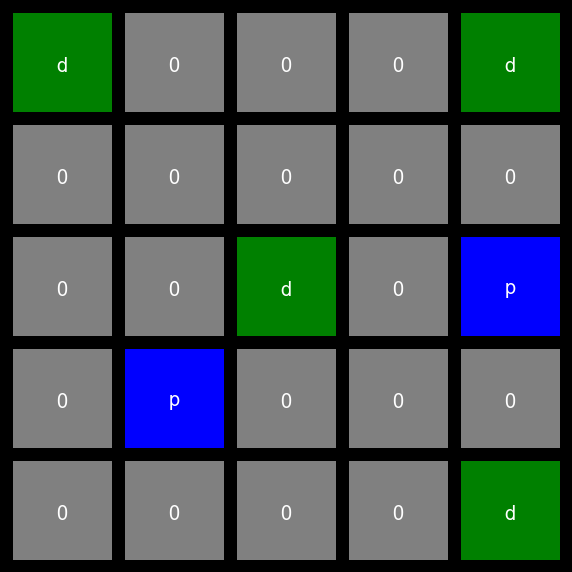
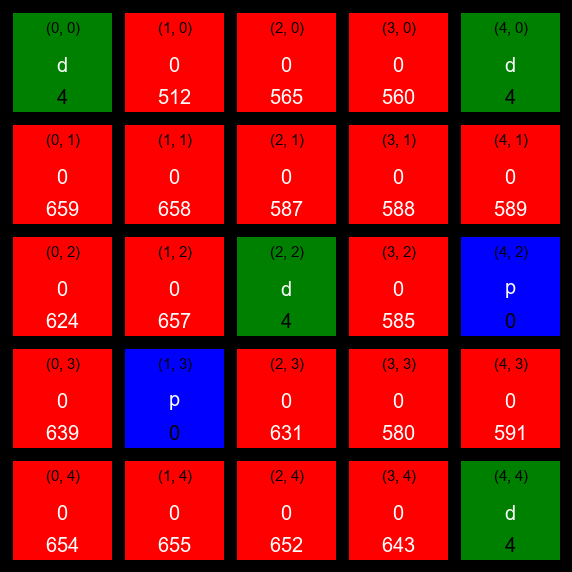
agent added

diff --git a/main.py b/main.py
@@ -1,7 +1,11 @@
 import numpy as np
+from random import randint
+import cv2 as cv
+import time
 
 from Visualize.visualize import Visualize as vl
 from WorldProcessing.readWorld import ReadWorld
+
 
 # World:
 # world has blocks, which has 'coor'(it's coordinate), 'north', 'south', 'west', 'east'
@@ -18,28 +22,44 @@ from WorldProcessing.readWorld import ReadWorld
 # put_x((x, y), 'color') // put a big X on the block
 
 
-def get_app_ops(world, x, y, has_block):
+def getAppOps(world, x, y, has_block):
     directions = ['north', 'south', 'west', 'east']
     return_ops = []
 
     if has_block:
-        if world[(x, y)]['action'] == "d" and world[(x, y)]['no_of_block'] < 4:
+        if world[(x, y)]['action'] == "d" and world[(x, y)]['no_of_blocks'] < 4:
             return_ops.append("d")
+            print("DELIVERED!")
+            return return_ops
         else:
             for d in directions:
                 if world[(x, y)][d] != 'nan':
                     return_ops.append(d)
     else:
-        if world[(x, y)]['action'] == "p" and world[(x, y)]['no_of_block'] > 0:
+        if world[(x, y)]['action'] == "p" and world[(x, y)]['no_of_blocks'] > 0:
             return_ops.append("p")
+            print("PICKED UP!")
+            return return_ops
         for d in directions:
             if world[(x, y)][d] != 'nan':
                 return_ops.append(d)
+
+    return return_ops
+
+
+def chooseRandom(app_operators):
+    if (app_operators[0] == "d"): return ["d", 13]
+    if (app_operators[0] == "p"): return ["p", 13]
+    index = randint(0, len(app_operators) - 1)
+    return [app_operators[index], -1]
+
 
 def main():
     print('Hello')
     h, w, world = ReadWorld().fill_world('testworld.txt')
     # print(world)
+    # for b in world:
+        # print(b, world[b]['east'])
     world_vl = vl()
 
     world_vl.visualize_gen(h, w, world)
@@ -47,23 +67,104 @@ def main():
     # write_block((0, 0), 'Hello', 'white', 'n')
     # put_x((0, 0), 'white')
 
-
-    for r in range(w):
-        for c in range(h):
+    for r in range(h):
+        for c in range(w):
             if world[(c, r)]['action'] == 'd':
                 world_vl.fill_block(world[(c, r)]['coor'], 'green')
             if world[(c, r)]['action'] == 'p':
                 world_vl.fill_block(world[(c, r)]['coor'], 'blue')
             world_vl.write_block(world[(c, r)]['coor'], world[(c, r)]['action'], 'white')
-
+            world_vl.write_block(world[(c, r)]['coor'], str(world[(c, r)]['coor']), 'black', 'n', 15)
 
     initial_state = (0, 0)
 
-    print(world[0, 1]['action'])
+    # print(world[0, 1]['action'])
     q_table = np.zeros((w, h, 6))
+    # print(q_table)
     action = ['n', 's', 'w', 'e', 'p', 'd']
 
+    #  start episode
 
+    FIRST_STEPS = 2000
+    SECOND_STEPS = 5500
+    policy = "PRANDOM"
+    # policy = "PEXPLOIT"
+    # policy = "PGREEDY"
+
+    has_block = False
+    x = 0
+    y = 4
+    world_vl.fill_block(world[(x, y)]['coor'], 'yellow')
+    world_vl.write_block(world[(x, y)]['coor'], 'start', 'black')
+
+    pick_up_loc = [(1, 3), (4, 2)]
+    drop_off_loc = [(0, 0), (4, 0), (2, 2), (4, 4)]
+
+    # always use PRANDOM for first 500 steps
+    # i_d = 0
+    for i_d in range(0, FIRST_STEPS):
+    #while True:
+        print(i_d, '{:.2f}%'.format((i_d / FIRST_STEPS)*100))
+        print('location: ', x, y)
+        if x > max(world)[0] or x < 0 or y > max(world)[1] or y < 0:
+            print('Out of bound')
+            break
+        app_operators = getAppOps(world, x, y, has_block)
+        # print('applicable_operators:', app_operators)
+
+        chosen_op, reward = chooseRandom(app_operators)
+        print("action:", chosen_op)
+        if chosen_op == 'd':
+            world[(x, y)]['no_of_blocks'] += 1
+            if world[(x, y)]['no_of_blocks'] == 4:
+                drop_off_loc.remove((x, y))
+                print((x, y), 'is full')
+                # time.sleep(3)
+            has_block = False
+        elif chosen_op == 'p':
+            world[(x, y)]['no_of_blocks'] -= 1
+            if world[(x, y)]['no_of_blocks'] == 0:
+                pick_up_loc.remove((x, y))
+                print((x, y), 'is empty')
+                # time.sleep(3)
+            has_block = True
+        else:
+            t_x = world[(x, y)][chosen_op][0]
+            t_y = world[(x, y)][chosen_op][1]
+            x = t_x
+            y = t_y
+        # print('next location: ', x, y)
+        world_vl.fill_block(world[(x, y)]['coor'], 'red')
+        world_vl.write_block(world[(x, y)]['coor'], str(i_d), pos='s')
+        # print("reward:", reward)
+        if len(pick_up_loc) == 0 and len(drop_off_loc) == 0:
+            break
+        i_d += 1
+
+    for r in range(h):
+        for c in range(w):
+            if world[(c, r)]['action'] == 'd':
+                world_vl.fill_block(world[(c, r)]['coor'], 'green')
+                world_vl.write_block(world[(c, r)]['coor'], str(world[(c, r)]['no_of_blocks']), 'black', pos='s')
+            if world[(c, r)]['action'] == 'p':
+                world_vl.fill_block(world[(c, r)]['coor'], 'blue')
+                world_vl.write_block(world[(c, r)]['coor'], str(world[(c, r)]['no_of_blocks']), 'black', pos='s')
+            world_vl.write_block(world[(c, r)]['coor'], world[(c, r)]['action'], 'white')
+            world_vl.write_block(world[(c, r)]['coor'], str(world[(c, r)]['coor']), 'black', 'n', 15)
+
+
+
+    # apply 'step' aka chosen_op
+    # set new_state and reward from that state
+
+
+# chose policy for next 5500 steps
+# for _ in range(0, SECOND_STEPS):
+
+
+# action = np.argmax(q_table[state, :])
+# for e in world[(0, 0)]:
+#     print(world[(0, 0)][e])
 
 
 if __name__ == '__main__':

diff --git a/WorldProcessing/readWorld.py b/WorldProcessing/readWorld.py
@@ -31,37 +31,37 @@ class ReadWorld:
         no_block_h = len(general_world)
         no_block_w = len(general_world[0])
 
-        for i in range(no_block_h):
-            for j in range(no_block_w):
-                world[(j, i)] = dict()
+        for i in range(no_block_w):
+            for j in range(no_block_h):
+                world[(i, j)] = dict()
                 for e in elements:
                     if e == 'coor':
-                        world[(j, i)][e] = (j, i)
+                        world[(i, j)][e] = (i, j)
                     if e == 'north':
-                        if i == 0:
-                            world[(j, i)][e] = 'nan'
-                        else:
-                            world[(j, i)][e] = (j, i - 1)
-                    if e == 'south':
-                        if i == no_block_h:
-                            world[(j, i)][e] = 'nan'
-                        else:
-                            world[(j, i)][e] = (j, i + 1)
-                    if e == 'west':
                         if j == 0:
-                            world[(j, i)][e] = 'nan'
+                            world[(i, j)][e] = 'nan'
                         else:
-                            world[(j, i)][e] = (j - 1, i)
+                            world[(i, j)][e] = (i, j - 1)
+                    if e == 'south':
+                        if j == no_block_h - 1:
+                            world[(i, j)][e] = 'nan'
+                        else:
+                            world[(i, j)][e] = (i, j + 1)
+                    if e == 'west':
+                        if i == 0:
+                            world[(i, j)][e] = 'nan'
+                        else:
+                            world[(i, j)][e] = (i - 1, j)
                     if e == 'east':
-                        if j == no_block_w:
-                            world[(j, i)][e] = 'nan'
+                        if i == no_block_w-1:
+                            world[(i, j)][e] = 'nan'
                         else:
-                            world[(j, i)][e] = (j + 1, i)
+                            world[(i, j)][e] = (i + 1, j)
                     if e == 'action':
-                        world[(j, i)][e] = general_world[i][j]
+                        world[(i, j)][e] = general_world[j][i]
                     if e == 'no_of_blocks':
-                        if general_world[i][j] == 'p':
-                            world[(j, i)][e] = 8
+                        if general_world[j][i] == 'p':
+                            world[(i, j)][e] = 8
                         else:
-                            world[(j, i)][e] = 0
+                            world[(i, j)][e] = 0
         return no_block_h, no_block_w, world

diff --git a/Visualize/visualize.py b/Visualize/visualize.py
@@ -42,12 +42,12 @@ class Visualize:
                            fill=color)
             img.save('world.png')
 
-    def write_block(self, coor=(0, 0), txt='text', t_color='white', pos='c'):
+    def write_block(self, coor=(0, 0), txt='text', t_color='white', pos='c', font_s=font_size):
         x = coor[0]
         y = coor[1]
         start_pixel_x = gap + x * (block_size + gap)
         start_pixel_y = gap + y * (block_size + gap)
-        font = ImageFont.truetype('arial.ttf', font_size)
+        font = ImageFont.truetype('arial.ttf', font_s)
         with Image.open("world.png") as img:
             draw = ImageDraw.Draw(img)
             text_w, text_h = draw.textsize(txt, font)
@@ -56,7 +56,7 @@ class Visualize:
                 start_pixel_y += gap / 2
             elif pos == 's':
                 start_pixel_x += (block_size - text_w) / 2
-                start_pixel_y += (block_size - gap * 3 / 2)
+                start_pixel_y += (block_size - gap * 3 / 2) - text_h / 2
             elif pos == 'w':
                 start_pixel_x += gap / 2
                 start_pixel_y += (block_size - text_h) / 2 - text_h / 2
